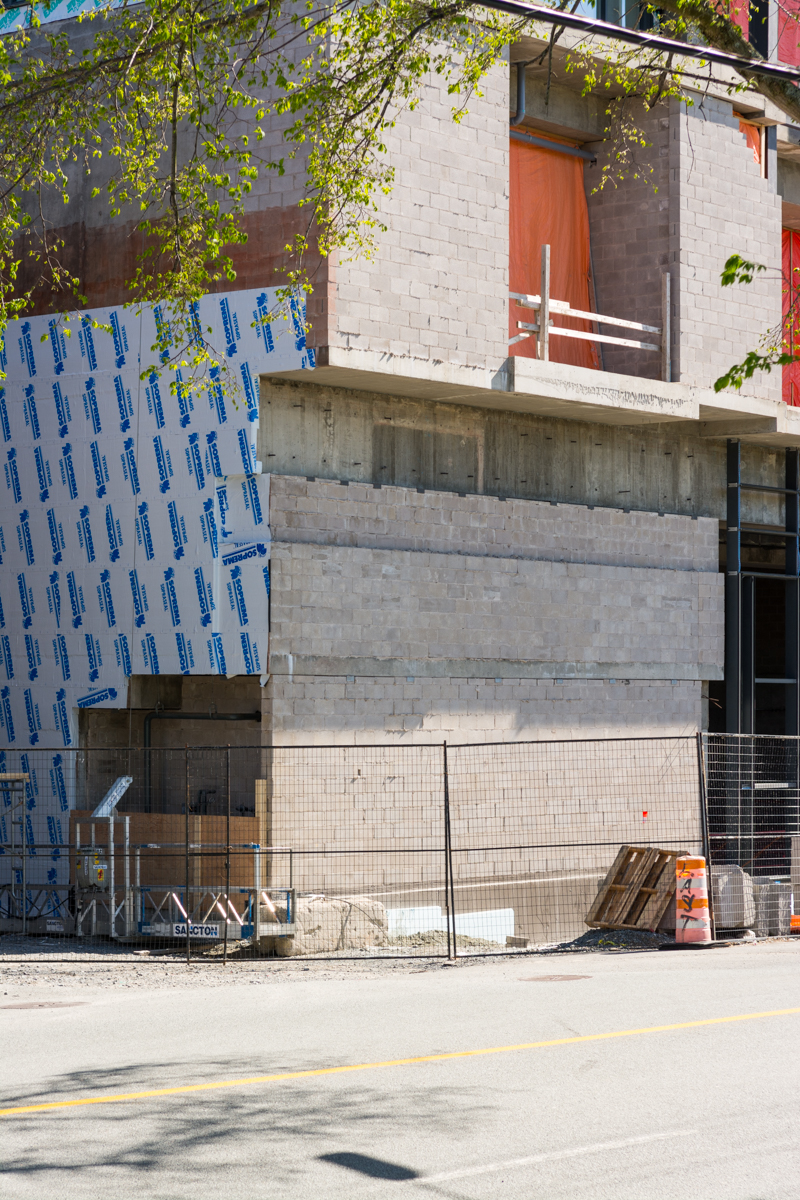
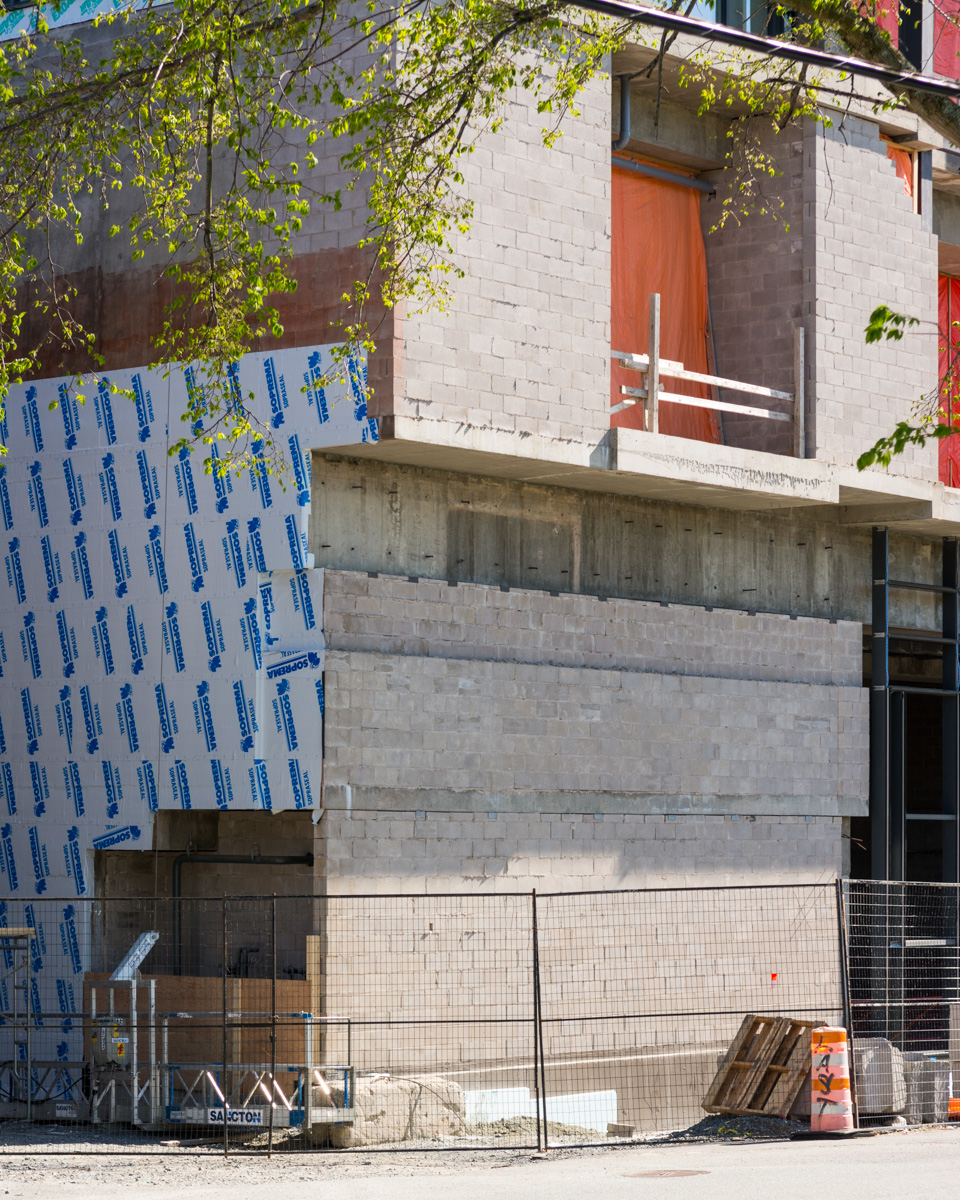
added 03a photos, updated nos page, updated navs

diff --git a/pages/contact_2019.html b/pages/contact_2019.html
@@ -31,12 +31,12 @@
               OUT
             </a>
 
-          	<a class="i no-underline gray bg-animate hover-washed-red grow db pb1 fw5-ns fw3 mv0 f6 lh-title list" href="http://tannerwhitney.github.io/pages/novascotia_2019.html">
-              NOS
+            <a class="i no-underline gray bg-animate hover-washed-red grow db pb1 fw5-ns fw3 mv0 f6 lh-title list" href="http://tannerwhitney.github.io/pages/contact_2019.html">
+              03A
             </a>
 
-          	<a class="i no-underline washed-red bg-animate hover-light-green grow db pb1 fw5-ns fw3 mv0 f6 lh-title list" href="http://tannerwhitney.github.io/pages/contact_2019.html">
-              03A
+          	<a class="i no-underline gray bg-animate hover-washed-red grow db pb1 fw5-ns fw3 mv0 f6 lh-title list" href="http://tannerwhitney.github.io/pages/novascotia_2019.html">
+              NOS
             </a>
 
           	<a class="i no-underline gray bg-animate hover-washed-red grow db pb1 fw5-ns fw3 mv0 f6 lh-title list" href="http://tannerwhitney.github.io/pages/china_2018.html">
@@ -106,10 +106,6 @@
               </div>
 
               <div class="pb4 w-50-ns w-90">
-                <img src="http://tannerwhitney.github.io/photos/2019_contact-002.jpg"/>
-              </div>
-
-              <div class="pb4 w-50-ns w-90">
                 <img src="http://tannerwhitney.github.io/photos/2019_contact-003.jpg"/>
               </div>
 
@@ -139,10 +135,6 @@
 
               <div class="pb4 w-50-ns w-90">
                 <img src="http://tannerwhitney.github.io/photos/2019_contact-010.jpg"/>
-              </div>
-
-              <div class="pb4 w-50-ns w-90">
-                <img src="http://tannerwhitney.github.io/photos/2019_contact-011.jpg"/>
               </div>
 
               <div class="pb4 w-50-ns w-90">
@@ -254,15 +246,7 @@
               </div>
 
               <div class="pb4 w-50-ns w-90">
-                <img src="http://tannerwhitney.github.io/photos/2019_contact-039.jpg"/>
-              </div>
-
-              <div class="pb4 w-50-ns w-90">
                 <img src="http://tannerwhitney.github.io/photos/2019_contact-040.jpg"/>
-              </div>
-
-              <div class="pb4 w-50-ns w-90">
-                <img src="http://tannerwhitney.github.io/photos/2019_contact-041.jpg"/>
               </div>
 
               <div class="pb4 w-50-ns w-90">
@@ -441,7 +425,55 @@
                 <img src="http://tannerwhitney.github.io/photos/2019_contact-085.jpg"/>
               </div>
 
-              <p class="i f6 fw5 mv0">2019. [almost done]
+              <div class="pb4 w-50-ns w-90">
+                <img src="http://tannerwhitney.github.io/photos/2019_contact-086.jpg"/>
+              </div>
+
+              <div class="pb4 w-50-ns w-90">
+                <img src="http://tannerwhitney.github.io/photos/2019_contact-087.jpg"/>
+              </div>
+
+              <div class="pb4 w-50-ns w-90">
+                <img src="http://tannerwhitney.github.io/photos/2019_contact-088.jpg"/>
+              </div>
+
+              <div class="pb4 w-50-ns w-90">
+                <img src="http://tannerwhitney.github.io/photos/2019_contact-089.jpg"/>
+              </div>
+
+              <div class="pb4 w-50-ns w-90">
+                <img src="http://tannerwhitney.github.io/photos/2019_contact-090.jpg"/>
+              </div>
+
+              <div class="pb4 w-50-ns w-90">
+                <img src="http://tannerwhitney.github.io/photos/2019_contact-091.jpg"/>
+              </div>
+
+              <div class="pb4 w-50-ns w-90">
+                <img src="http://tannerwhitney.github.io/photos/2019_contact-092.jpg"/>
+              </div>
+
+              <div class="pb4 w-50-ns w-90">
+                <img src="http://tannerwhitney.github.io/photos/2019_contact-093.jpg"/>
+              </div>
+
+              <div class="pb4 w-50-ns w-90">
+                <img src="http://tannerwhitney.github.io/photos/2019_contact-094.jpg"/>
+              </div>
+
+              <div class="pb4 w-50-ns w-90">
+                <img src="http://tannerwhitney.github.io/photos/2019_contact-095.jpg"/>
+              </div>
+
+              <div class="pb4 w-50-ns w-90">
+                <img src="http://tannerwhitney.github.io/photos/2019_contact-096.jpg"/>
+              </div>
+
+              <div class="pb4 w-50-ns w-90">
+                <img src="http://tannerwhitney.github.io/photos/2019_contact-097.jpg"/>
+              </div>
+
+              <p class="i f6 fw5 mv0">2019.
               </p>
           </section>
         </div>

diff --git a/pages/novascotia_2019.html b/pages/novascotia_2019.html
@@ -31,12 +31,12 @@
               OUT
             </a>
 
-            <a class="i no-underline washed-red bg-animate hover-light-green grow db pb1 fw5-ns fw3 mv0 f6 lh-title list" href="http://tannerwhitney.github.io/pages/novascotia_2019.html">
-              Nova Scotia
-            </a>
-
             <a class="i no-underline gray bg-animate hover-washed-red grow db pb1 fw5-ns fw3 mv0 f6 lh-title list" href="http://tannerwhitney.github.io/pages/contact_2019.html">
               03A
+            </a>
+
+            <a class="i no-underline washed-red bg-animate hover-light-green grow db pb1 fw5-ns fw3 mv0 f6 lh-title list" href="http://tannerwhitney.github.io/pages/novascotia_2019.html">
+              Nova Scotia
             </a>
             
             <a class="i no-underline gray bg-animate hover-washed-red grow db pb1 fw5-ns fw3 mv0 f6 lh-title list" href="http://tannerwhitney.github.io/pages/china_2018.html">
@@ -97,7 +97,7 @@
 
               <p class="w-50-ns w-90 i f6 fw5 mv0"><b>Nova Scotia</b>
               </p>
-              <p class="w-50-ns w-90 i f6 fw3 mv0">Upon second glance I'm not so sure these are double takes.
+              <p class="w-50-ns w-90 i f6 fw3 mv0">Upon second glance I'm not so sure these are double takes. [Slowly being deleted]
               </p>
               <br>
 
@@ -137,10 +137,6 @@
 
               <div class="pb4 w-50-ns w-90">
                 <img src="http://tannerwhitney.github.io/photos/2019_nsb-05.jpg"/>
-              </div>
-
-              <div class="pb4 w-50-ns w-90">
-                <img src="http://tannerwhitney.github.io/photos/2019_nsb-06.jpg"/>
               </div>
 
               <p class="i f6 fw5 mv0">Nova Scotia. 2019.

diff --git a/pages/california_2019.html b/pages/california_2019.html
@@ -31,14 +31,14 @@
               Out of Town
             </a>
 
-            <a class="i no-underline gray bg-animate hover-washed-red grow db pb1 fw5-ns fw3 mv0 f6 lh-title list" href="http://tannerwhitney.github.io/pages/novascotia_2019.html">
-              NOS
-            </a>
-
             <a class="i no-underline gray bg-animate hover-washed-red grow db pb1 fw5-ns fw3 mv0 f6 lh-title list" href="http://tannerwhitney.github.io/pages/contact_2019.html">
               03A
             </a>
-            
+
+            <a class="i no-underline gray bg-animate hover-washed-red grow db pb1 fw5-ns fw3 mv0 f6 lh-title list" href="http://tannerwhitney.github.io/pages/novascotia_2019.html">
+              NOS
+            </a>
+         
             <a class="i no-underline gray bg-animate hover-washed-red grow db pb1 fw5-ns fw3 mv0 f6 lh-title list" href="http://tannerwhitney.github.io/pages/china_2018.html">
               HER
             </a>
@@ -97,7 +97,7 @@
 
               <p class="w-50-ns w-90 i f6 fw5 mv0"><b>Out of Town</b>
               </p>
-              <p class="w-50-ns w-90 i f6 fw3 mv0">Looping back around.
+              <p class="w-50-ns w-90 i f6 fw3 mv0">"I knew you weren't from here."
               </p>
               <br>
 

diff --git a/pages/china_2018.html b/pages/china_2018.html
@@ -31,12 +31,12 @@
               OUT
             </a>
 
-            <a class="i no-underline gray bg-animate hover-washed-red grow db pb1 fw5-ns fw3 mv0 f6 lh-title list" href="http://tannerwhitney.github.io/pages/novascotia_2019.html">
-              NOS
-            </a>
-
             <a class="i no-underline gray bg-animate hover-washed-red grow db pb1 fw5-ns fw3 mv0 f6 lh-title list" href="http://tannerwhitney.github.io/pages/contact_2019.html">
               03A
+            </a>
+
+            <a class="i no-underline gray bg-animate hover-washed-red grow db pb1 fw5-ns fw3 mv0 f6 lh-title list" href="http://tannerwhitney.github.io/pages/novascotia_2019.html">
+              NOS
             </a>
             
             <a class="i no-underline washed-red bg-animate hover-light-green grow db pb1 fw5-ns fw3 mv0 f6 lh-title list" href="http://tannerwhitney.github.io/pages/china_2018.html">

diff --git a/pages/gallery_2017.html b/pages/gallery_2017.html
@@ -31,12 +31,12 @@
               OUT
             </a>
 
-            <a class="i no-underline gray bg-animate hover-washed-red grow db pb1 fw5-ns fw3 mv0 f6 lh-title list" href="http://tannerwhitney.github.io/pages/novascotia_2019.html">
-              NOS
-            </a>
-
             <a class="i no-underline gray bg-animate hover-washed-red grow db pb1 fw5-ns fw3 mv0 f6 lh-title list" href="http://tannerwhitney.github.io/pages/contact_2019.html">
               03A
+            </a>
+
+            <a class="i no-underline gray bg-animate hover-washed-red grow db pb1 fw5-ns fw3 mv0 f6 lh-title list" href="http://tannerwhitney.github.io/pages/novascotia_2019.html">
+              NOS
             </a>
             
             <a class="i no-underline gray bg-animate hover-washed-red grow db pb1 fw5-ns fw3 mv0 f6 lh-title list" href="http://tannerwhitney.github.io/pages/china_2018.html">

diff --git a/pages/germany_2015.html b/pages/germany_2015.html
@@ -33,12 +33,12 @@
               OUT
             </a>
 
-            <a class="i no-underline gray bg-animate hover-washed-red grow db pb1 fw5-ns fw3 mv0 f6 lh-title list" href="http://tannerwhitney.github.io/pages/novascotia_2019.html">
-              NOS
-            </a>
-
             <a class="i no-underline gray bg-animate hover-washed-red grow db pb1 fw5-ns fw3 mv0 f6 lh-title list" href="http://tannerwhitney.github.io/pages/contact_2019.html">
               03A
+            </a>
+
+            <a class="i no-underline gray bg-animate hover-washed-red grow db pb1 fw5-ns fw3 mv0 f6 lh-title list" href="http://tannerwhitney.github.io/pages/novascotia_2019.html">
+              NOS
             </a>
             
             <a class="i no-underline gray bg-animate hover-washed-red grow db pb1 fw5-ns fw3 mv0 f6 lh-title list" href="http://tannerwhitney.github.io/pages/china_2018.html">

diff --git a/pages/contact_2018.html b/pages/contact_2018.html
@@ -31,12 +31,12 @@
               OUT
             </a>
 
-            <a class="i no-underline gray bg-animate hover-washed-red grow db pb1 fw5-ns fw3 mv0 f6 lh-title list" href="http://tannerwhitney.github.io/pages/novascotia_2019.html">
-              NOS
-            </a>
-
             <a class="i no-underline gray bg-animate hover-washed-red grow db pb1 fw5-ns fw3 mv0 f6 lh-title list" href="http://tannerwhitney.github.io/pages/contact_2019.html">
               03A
+            </a>
+
+            <a class="i no-underline gray bg-animate hover-washed-red grow db pb1 fw5-ns fw3 mv0 f6 lh-title list" href="http://tannerwhitney.github.io/pages/novascotia_2019.html">
+              NOS
             </a>
             
           	<a class="i no-underline gray bg-animate hover-washed-red grow db pb1 fw5-ns fw3 mv0 f6 lh-title list" href="http://tannerwhitney.github.io/pages/china_2018.html">

diff --git a/pages/print.html b/pages/print.html
@@ -31,12 +31,12 @@
               OUT
             </a>
 
-          	<a class="i no-underline gray bg-animate hover-washed-red grow db pb1 fw5-ns fw3 mv0 f6 lh-title list" href="http://tannerwhitney.github.io/pages/novascotia_2019.html">
-              NOS
-            </a>
-
             <a class="i no-underline gray bg-animate hover-washed-red grow db pb1 fw5-ns fw3 mv0 f6 lh-title list" href="http://tannerwhitney.github.io/pages/contact_2019.html">
               03A
+            </a>
+
+            <a class="i no-underline gray bg-animate hover-washed-red grow db pb1 fw5-ns fw3 mv0 f6 lh-title list" href="http://tannerwhitney.github.io/pages/novascotia_2019.html">
+              NOS
             </a>
             
             <a class="i no-underline gray bg-animate hover-washed-red grow db pb1 fw5-ns fw3 mv0 f6 lh-title list" href="http://tannerwhitney.github.io/pages/china_2018.html">

diff --git a/pages/work_2019.html b/pages/work_2019.html
@@ -31,12 +31,12 @@
               OUT
             </a>
 
-          	<a class="i no-underline gray bg-animate hover-washed-red grow db pb1 fw5-ns fw3 mv0 f6 lh-title list" href="http://tannerwhitney.github.io/pages/novascotia_2019.html">
-              NOS
-            </a>
-
             <a class="i no-underline gray bg-animate hover-washed-red grow db pb1 fw5-ns fw3 mv0 f6 lh-title list" href="http://tannerwhitney.github.io/pages/contact_2019.html">
               03A
+            </a>
+
+            <a class="i no-underline gray bg-animate hover-washed-red grow db pb1 fw5-ns fw3 mv0 f6 lh-title list" href="http://tannerwhitney.github.io/pages/novascotia_2019.html">
+              NOS
             </a>
             
             <a class="i no-underline gray bg-animate hover-washed-red grow db pb1 fw5-ns fw3 mv0 f6 lh-title list" href="http://tannerwhitney.github.io/pages/china_2018.html">

diff --git a/index.html b/index.html
@@ -31,12 +31,12 @@
               OUT
             </a>
 
-            <a class="i no-underline gray bg-animate hover-washed-red grow db pb1 fw5-ns fw3 mv0 f6 lh-title list" href="http://tannerwhitney.github.io/pages/novascotia_2019.html">
-              NOS
-            </a>
-
             <a class="i no-underline gray bg-animate hover-washed-red grow db pb1 fw5-ns fw3 mv0 f6 lh-title list" href="http://tannerwhitney.github.io/pages/contact_2019.html">
               03A
+            </a>
+
+            <a class="i no-underline gray bg-animate hover-washed-red grow db pb1 fw5-ns fw3 mv0 f6 lh-title list" href="http://tannerwhitney.github.io/pages/novascotia_2019.html">
+              NOS
             </a>
 
             <a class="i no-underline gray bg-animate hover-washed-red grow db pb1 fw5-ns fw3 mv0 f6 lh-title list" href="http://tannerwhitney.github.io/pages/china_2018.html">

diff --git a/pages/about.html b/pages/about.html
@@ -31,12 +31,12 @@
               OUT
             </a>
 
-            <a class="i no-underline gray bg-animate hover-washed-red grow db pb1 fw5-ns fw3 mv0 f6 lh-title list" href="http://tannerwhitney.github.io/pages/novascotia_2019.html">
-              NOS
-            </a>
-
             <a class="i no-underline gray bg-animate hover-washed-red grow db pb1 fw5-ns fw3 mv0 f6 lh-title list" href="http://tannerwhitney.github.io/pages/contact_2019.html">
               03A
+            </a>
+
+            <a class="i no-underline gray bg-animate hover-washed-red grow db pb1 fw5-ns fw3 mv0 f6 lh-title list" href="http://tannerwhitney.github.io/pages/novascotia_2019.html">
+              NOS
             </a>
 
             <a class="i no-underline gray bg-animate hover-washed-red grow db pb1 fw5-ns fw3 mv0 f6 lh-title list" href="http://tannerwhitney.github.io/pages/china_2018.html">

diff --git a/pages/blackscale.html b/pages/blackscale.html
@@ -31,12 +31,12 @@
               OUT
             </a>
 
-            <a class="i no-underline gray bg-animate hover-washed-red grow db pb1 fw5-ns fw3 mv0 f6 lh-title list" href="http://tannerwhitney.github.io/pages/novascotia_2019.html">
-              NOS
-            </a>
-
             <a class="i no-underline gray bg-animate hover-washed-red grow db pb1 fw5-ns fw3 mv0 f6 lh-title list" href="http://tannerwhitney.github.io/pages/contact_2019.html">
               03A
+            </a>
+
+            <a class="i no-underline gray bg-animate hover-washed-red grow db pb1 fw5-ns fw3 mv0 f6 lh-title list" href="http://tannerwhitney.github.io/pages/novascotia_2019.html">
+              NOS
             </a>
 
             <a class="i no-underline gray bg-animate hover-washed-red grow db pb1 fw5-ns fw3 mv0 f6 lh-title list" href="http://tannerwhitney.github.io/pages/china_2018.html">
